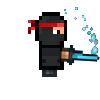
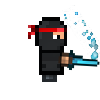
2

Changed region(s): [[0.27, 0.09, 1.0, 0.84], [0.72, 0.06, 0.78, 0.27]]

diff --git a/Game/Dungeon/Peretaskivanie.py b/Game/Dungeon/Peretaskivanie.py
@@ -9,31 +9,7 @@ screen.fill((255, 255, 255))
 fps = 6000
 step = 100
 running = True
-click = False
-position = (10, 20)
-cursor_pos = 0
 x = 0
-
-
-class Assasin(pygame.sprite.Sprite):
-    def __init__(self):
-        pygame.sprite.Sprite.__init__(self)
-        self.image = load_image('Assassin2.png')
-        self.state = load_image('Assassin2.png')
-        self.attack = load_image('Assassin_attack.png')
-        self.rect = self.image.get_rect()
-
-
-class Berserk(pygame.sprite.Sprite):
-    def __init__(self):
-        pygame.sprite.Sprite.__init__(self)
-        self.image = load_image('berserk.png')
-        self.state = load_image('berserk.png')
-        self.attack = load_image('berserk_attack.png')
-        self.rect = self.image.get_rect()
-
-
-# pers = [Assasin(), Berserk()]
 
 
 def load_image(name, color_key=None):
@@ -53,71 +29,93 @@ def load_image(name, color_key=None):
     return image
 
 
+class Character(pygame.sprite.Sprite):
+    def __init__(self, *group, name):
+        pygame.sprite.Sprite.__init__(self)
+        super().__init__(*group)
+        self.image = load_image(f'{name}.png')
+        self.rect = self.image.get_rect()
+        self.def_rect = self.rect
+        self.name = name
+        self.health = 0
+        self.armor = 0
+        self.damage = 0
+
+    def sprite(self, state=None):
+        if state == 1:
+            self.image = load_image(f'{self.name}.png')
+        elif state == 2:
+            self.image = load_image(f'{self.name}_attack.png')
+        else:
+            self.image = load_image(f'{self.name}_death.png')
+
+    def update(self, *args):
+
+        if args and args[0].type == pygame.MOUSEBUTTONDOWN and self.rect.collidepoint(args[0].pos):
+            self.sprite(state=2)
+        else:
+            self.sprite(state=1)
+
+
+class Assassin(Character):
+    def __init__(self):
+        Character.__init__(self, name='Assassin')
+
+
+class Berserk(Character):
+    def __init__(self):
+        Character.__init__(self, name="berserk")
+
+
 clock = pygame.time.Clock()
 all_sprites = pygame.sprite.Group()
 
-g = [Assasin()]
-print(g)
-for i in g:
+heros = [Assassin()]
+
+for i in heros:
     print(list(i.rect.center)[0] + x, list(i.rect.center)[1])
     i.rect.center = [list(i.rect.center)[0] + x, list(i.rect.center)[1]]
     x += step
 
-all_sprites.add(g)
+all_sprites.add(heros)
 key = pygame.key.get_pressed()
 clock = pygame.time.Clock()
-click_on = False
+
 while running:
     for event in pygame.event.get():
         last = (key[pygame.K_RIGHT], key[pygame.K_1], key[pygame.K_2], key[pygame.K_LEFT])
         key = pygame.key.get_pressed()
+
         if last == (key[pygame.K_RIGHT], key[pygame.K_1], key[pygame.K_2], key[pygame.K_LEFT]):
             change = True
         else:
             change = False
+
         if event.type == pygame.QUIT:
             running = False
-        if key[pygame.K_RIGHT] and (key[pygame.K_1] or key[pygame.K_2]) and not change:
-            all_sprites.remove(g)
+
+        if key[pygame.K_RIGHT] and (key[pygame.K_1] or key[pygame.K_2]) and not change and len(heros) < 4:
+            all_sprites.remove(heros)
             if key[pygame.K_1]:
-                a = Assasin()
+                a = Assassin()
+
             if key[pygame.K_2]:
                 a = Berserk()
-            print(a)
+
             a.rect.center = [list(a.rect.center)[0] + x, list(a.rect.center)[1]]
             x += step
-            g.append(a)
-            all_sprites.add(g)
+            heros.append(a)
+            all_sprites.add(heros)
 
-        if key[pygame.K_LEFT] and len(g) > 0 and not change:
-            all_sprites.remove(g)
-            g = g[:-1]
+        if key[pygame.K_LEFT] and len(heros) > 0 and not change:
+            all_sprites.remove(heros)
+            heros = heros[:-1]
             x -= step
-            all_sprites.add(g)
+            all_sprites.add(heros)
 
-        if event.type == pygame.MOUSEBUTTONDOWN:
-            if event.pos[0] - position[0] < 100 and event.pos[1] - position[1] < 100 and not click_on:
-                click_on = True
-                cursor_pos = event.pos
-            click = True
-        if event.type == pygame.MOUSEBUTTONUP:
-            click = False
-            print(event.type)
-            click_on = False
-            position = (10, 20)
-        if event.type == pygame.MOUSEMOTION:
-            if click_on:
-                position = (position[0] + event.pos[0] - cursor_pos[0], position[1] + event.pos[1] - cursor_pos[1])
-                cursor_pos = event.pos
-        if (event.type == pygame.MOUSEBUTTONDOWN and event.button == 1) or click:
-            for i in g:
-                i.image = i.attack
-        else:
-            for i in g:
-                i.image = i.state
     screen.fill((255, 255, 255))
-    pygame.draw.rect(screen, pygame.Color(0, 255, 0), (position[0], position[1], 100, 100))
     all_sprites.draw(screen)
+    all_sprites.update(event)
     clock.tick(fps)
     pygame.display.flip()
 pygame.quit()
